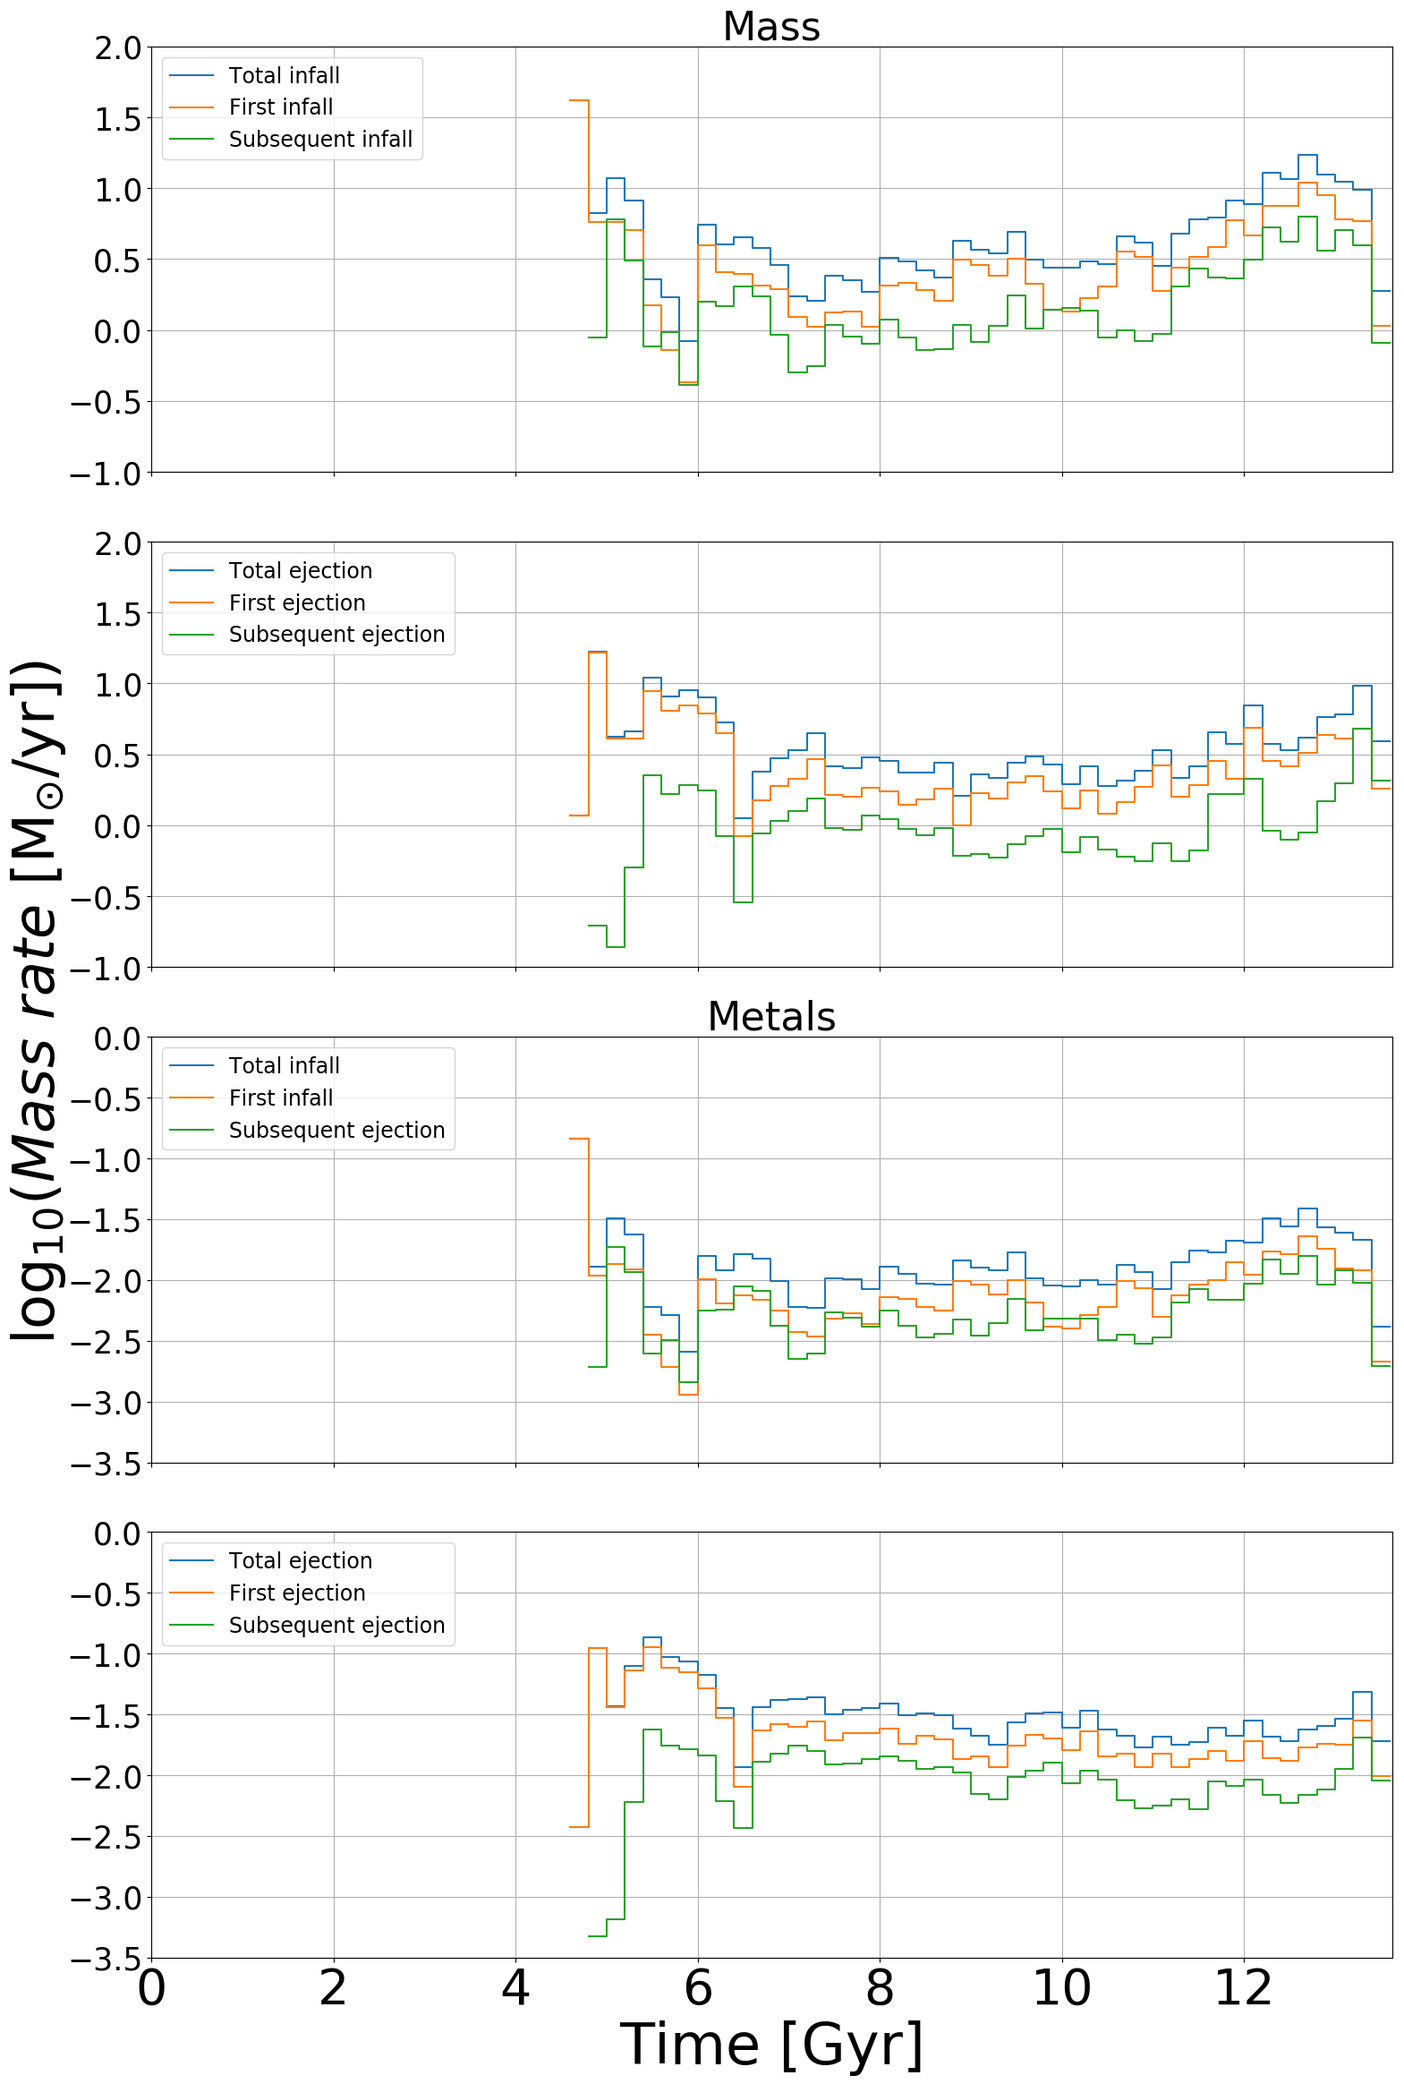
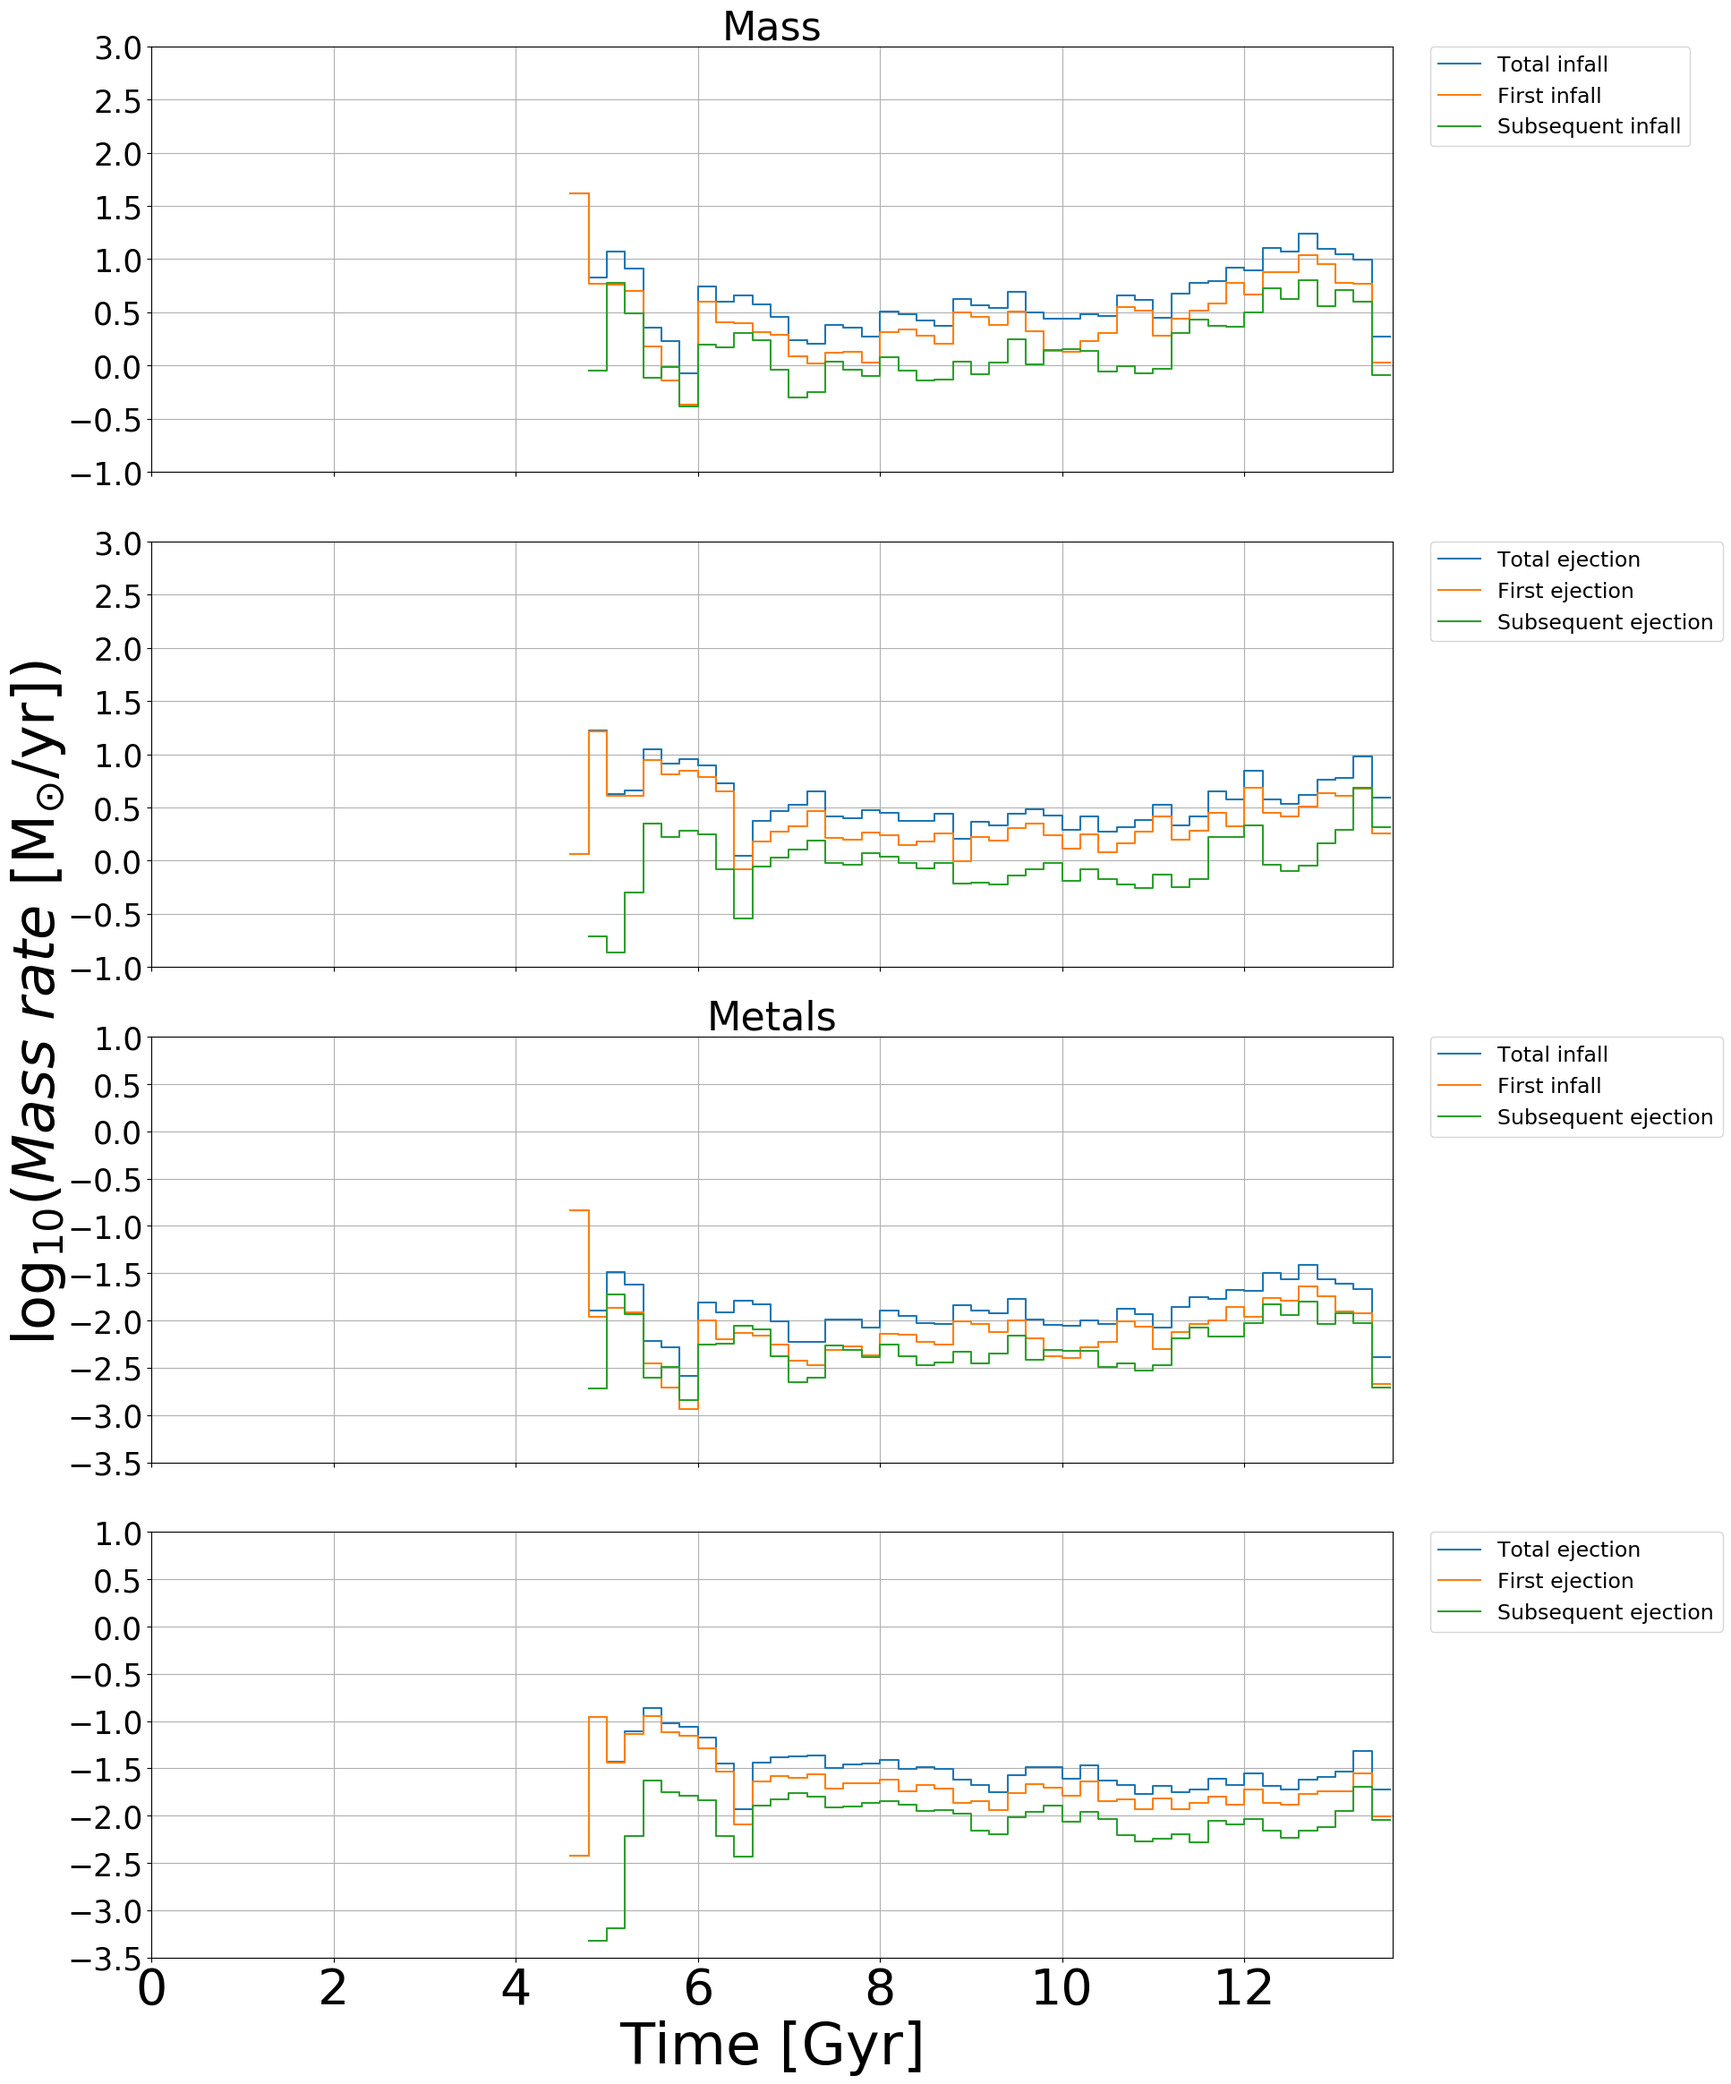
in_out_over_time move legend outside of the plot

diff --git a/1/in_out_over_time.py b/1/in_out_over_time.py
@@ -7,11 +7,12 @@ import glob
 from multiprocessing import Pool
 import utils
 
-filename = __file__
+#filename = __file__
+filename = '/in_out_over_time.py'
 
 def plot(args):
     halo, definition = args
-    print halo
+    print halo, definition
     path = '/ptmp/mpa/naab/REFINED/%s/SF_X/4x-2phase/out/snap_%s_4x_???' % (halo, halo)
     max = int(sorted(glob.glob(path))[-1][-3:])
     s, h, g = pg.prepare_zoom('/ptmp/mpa/naab/REFINED/%s/SF_X/4x-2phase/out/snap_%s_4x_%s' % (halo, halo, max), gas_trace='/u/mihac/data/%s/4x-2phase/gastrace_%s' % (halo, definition), star_form=None)
@@ -77,31 +78,31 @@ def plot(args):
     for ax in axes[:-1]:
         ax.tick_params(labelbottom='off')
     for ax in (ax1, ax2):
-        ax.set_ylim((-1, 2))
+        ax.set_ylim((-1, 3))
     for ax in (ax3, ax4):
-        ax.set_ylim((-3.5, 0))
+        ax.set_ylim((-3.5, 1))
 
     ax1.set_title("Mass")
     ax1.step(bins[:-1], mass_infall, label='Total infall')
     ax1.step(bins[:-1], mass_infall_initial, label='First infall')
     ax1.step(bins[:-1], mass_infall_reac, label='Subsequent infall')
-    lgd1 = ax1.legend(loc='upper left', fontsize=17)
+    lgd1 = ax1.legend(bbox_to_anchor=(1.03, 1), loc=2, borderaxespad=0., fontsize=17)
 
     ax2.step(bins[:-1], mass_ejection, label='Total ejection')
     ax2.step(bins[:-1], mass_ejection_initial, label='First ejection')
     ax2.step(bins[:-1], mass_ejection_reac, label='Subsequent ejection')
-    lgd2 = ax2.legend(loc='upper left', fontsize=17)
+    lgd2 = ax2.legend(bbox_to_anchor=(1.03, 1), loc=2, borderaxespad=0., fontsize=17)
 
     ax3.set_title("Metals")
     ax3.step(bins[:-1], metals_infall, label='Total infall')
     ax3.step(bins[:-1], metals_infall_initial, label='First infall')
     ax3.step(bins[:-1], metals_infall_reac, label='Subsequent ejection')
-    lgd3 = ax3.legend(loc='upper left', fontsize=17)
+    lgd3 = ax3.legend(bbox_to_anchor=(1.03, 1), loc=2, borderaxespad=0., fontsize=17)
 
     ax4.step(bins[:-1], metals_ejection, label='Total ejection')
     ax4.step(bins[:-1], metals_ejection_initial, label='First ejection')
     ax4.step(bins[:-1], metals_ejection_reac, label='Subsequent ejection')
-    lgd4 = ax4.legend(loc='upper left', fontsize=17)
+    lgd4 = ax4.legend(bbox_to_anchor=(1.03, 1), loc=2, borderaxespad=0., fontsize=17)
 
     f.tight_layout()
 
@@ -129,4 +130,5 @@ def plot(args):
 
 p = Pool(8)
 p.map(plot, utils.combinations)
-
+#for comb in utils.combinations:
+#    plot(comb)
